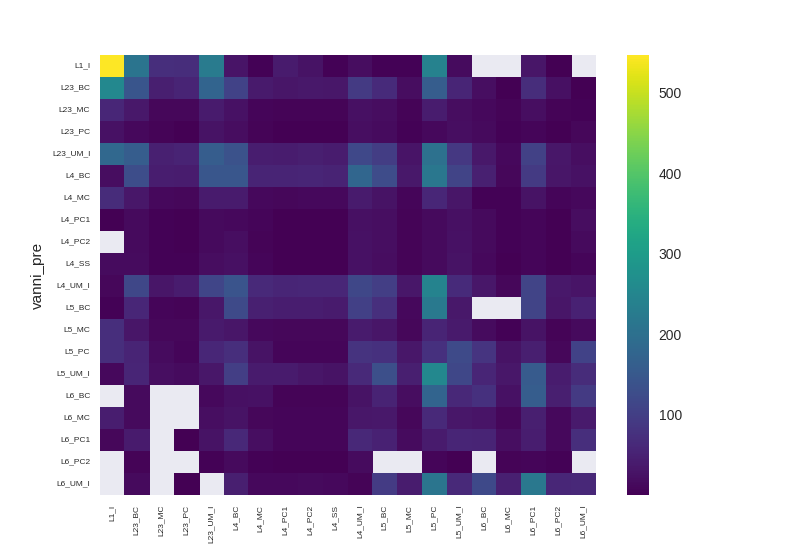
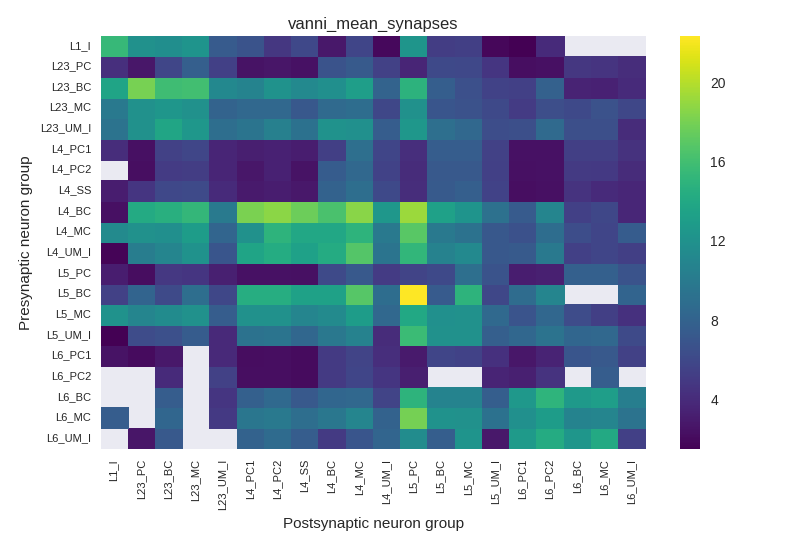
Tweaks to make plots look similar to Markram's

diff --git a/pandas_playground/pandaplots.py b/pandas_playground/pandaplots.py
@@ -8,24 +8,40 @@ mycmap = 'viridis'
 
 data = pd.read_json('pathways_anatomy_vanni.json', orient='index')
 
+# Saving & reading messes with correct order! >.<
+sort_order = ['layer_pre', 'is_inhibitory_pre', 'celltype_pre', 'layer_post', 'is_inhibitory_post', 'celltype_post']
+data = data.sort_values(by=sort_order)
+
+correct_order = data.neurongroup_pre.unique()
+
 # Create 2D data
 plotdata = dict()
-plotdata['markram_mean_synapses'] = data.pivot_table('mean_number_of_synapse_per_connection', index='markram_pre', columns='markram_post', aggfunc = sum) # Meaningless as there is nothing to aggregate
-plotdata['vanni_mean_synapses'] = data.pivot_table('mean_number_of_synapse_per_connection', index='vanni_pre', columns='vanni_post', aggfunc = sum) # Should be weighted
-plotdata['synapses_btw_layers'] = data.pivot_table('total_synapse_count', index='layer_pre', columns='layer_post', aggfunc=sum).fillna(0).T
 
-plot_these = ['markram_mean_synapses', 'vanni_mean_synapses', 'synapses_btw_layers']
+plotdata['vanni_mean_synapses'] = data.pivot_table('mean_number_of_synapses_per_connection', index='neurongroup_pre', columns='neurongroup_post', aggfunc = sum)
+plotdata['vanni_conn_probability'] = data.pivot_table('connection_probability', index='neurongroup_pre', columns='neurongroup_post', aggfunc=sum)
+
+plot_these = ['vanni_mean_synapses', 'vanni_conn_probability']
 
 
 # Plot it
 plt.close() # In case something is open
 plotobj = dict()
+sns.set()
 
 for p in plot_these:
+	plotdata[p] = plotdata[p].reindex(index=correct_order, columns=correct_order) # Pivoting messes (=alphabetizes) the order
+	plotdata[p].index.name = 'Presynaptic neuron group'
+	plotdata[p].columns.name = 'Postsynaptic neuron group'
 	plotobj[p] = sns.heatmap(plotdata[p], cmap=mycmap)
-	plt.tick_params(axis="both", labelsize=6)
+	plt.tick_params(axis="both", labelsize=8)
 	plt.setp(plotobj[p].get_xticklabels(), rotation=90)
 	plt.setp(plotobj[p].get_yticklabels(), rotation=0)
-	plt.savefig(p+'.png', dpi=100)
+	plt.title(p)
+	plt.tight_layout()
+	plt.savefig('plots/'+p+'.png', dpi=100)
 	plt.close()
 
+
+# Todo:
+# 1) Order neuron groups excitatory->inhibitory, then ab-lly
+# 2) Create/modify class with above functionality (heatmap-method for mean-synapses,conn-probability)

diff --git a/pandas_playground/vannilized_to_vanni_pathways_anatomy.py b/pandas_playground/vannilized_to_vanni_pathways_anatomy.py
@@ -2,6 +2,7 @@
 # Henri Hokkanen 21 July 2016
 
 import pandas as pd
+import re
 
 file_pathways_anatomy_vannilized = 'pathways_anatomy_vannilized.json' # INPUT
 file_pathways_anatomy_vanni = 'pathways_anatomy_vanni.json' # OUTPUT
@@ -21,6 +22,8 @@ def get_vanni_connection_params(connection_index):
 	    'L6_SBC': 67, 'L6_NGC': 17, 'L6_LBC': 463, 'L6_BTC': 54, 'L6_NBC': 198, 'L6_BPC': 3174, 'L6_IPC': 3476,
 	    'L6_TPC_L1': 1637, 'L6_DBC': 31, 'L6_TPC_L4': 1440, 'L6_UTPC': 1735, 'L6_BP': 7
 	    }
+
+	inhibitory_types = ['BC', 'MC', 'I', 'UM_I']
 
 	data = pd.read_json(file_pathways_anatomy_vannilized, orient='index')
 
@@ -112,7 +115,26 @@ def get_vanni_connection_params(connection_index):
 	po = tot_synapses / (N_possible * weighted_spc)
 	po2 = tot_synapses / (N_possible * weighted_spc2)
 
-	conn_params = pd.DataFrame(data={'connection_probability': po, 'mean_number_of_synapses_per_connection': weighted_spc, 'total_synapse_count': tot_synapses},index=[connection_index])
+	# Layer and cell type 
+	layer_pre, celltype_pre = re.split('(\w{2,3})_(.*)', pre_group)[1:3]
+	layer_post, celltype_post = re.split('(\w{2,3})_(.*)', post_group)[1:3]
+
+
+	# Aggregate everything
+
+	conn_params = pd.DataFrame(index=[connection_index], data={
+		'neurongroup_pre': pre_group,
+		'neurongroup_post': post_group,
+		'layer_pre': layer_pre,
+		'layer_post': layer_post,
+		'celltype_pre': celltype_pre,
+		'celltype_post': celltype_post,
+		'is_inhibitory_pre': celltype_pre in inhibitory_types,
+		'is_inhibitory_post': celltype_post in inhibitory_types,
+		'connection_probability': po,
+		'mean_number_of_synapses_per_connection': weighted_spc, 
+		'total_synapse_count': tot_synapses
+		})
 	
 	return conn_params
 
@@ -125,4 +147,9 @@ vanni_connections = data.vanni_index.unique()
 frames = [ get_vanni_connection_params(conn) for conn in vanni_connections ]
 result = pd.concat(frames)
 
+# Sort it like Markram
+sort_order = ['layer_pre', 'is_inhibitory_pre', 'celltype_pre', 'layer_post', 'is_inhibitory_post', 'celltype_post']
+result = result.sort_values(by=sort_order)
+
+# Save everything
 result.astype(str).to_json(file_pathways_anatomy_vanni, orient='index')

diff --git a/pandas_playground/get_params.py b/pandas_playground/get_params.py
@@ -1,4 +1,4 @@
-(# Playing around with Pandas
+# Playing around with Pandas
 # Importing connection params from CXSystem's brian2_obj_namespaces file
 
 import brian2_obj_namespaces as ns
